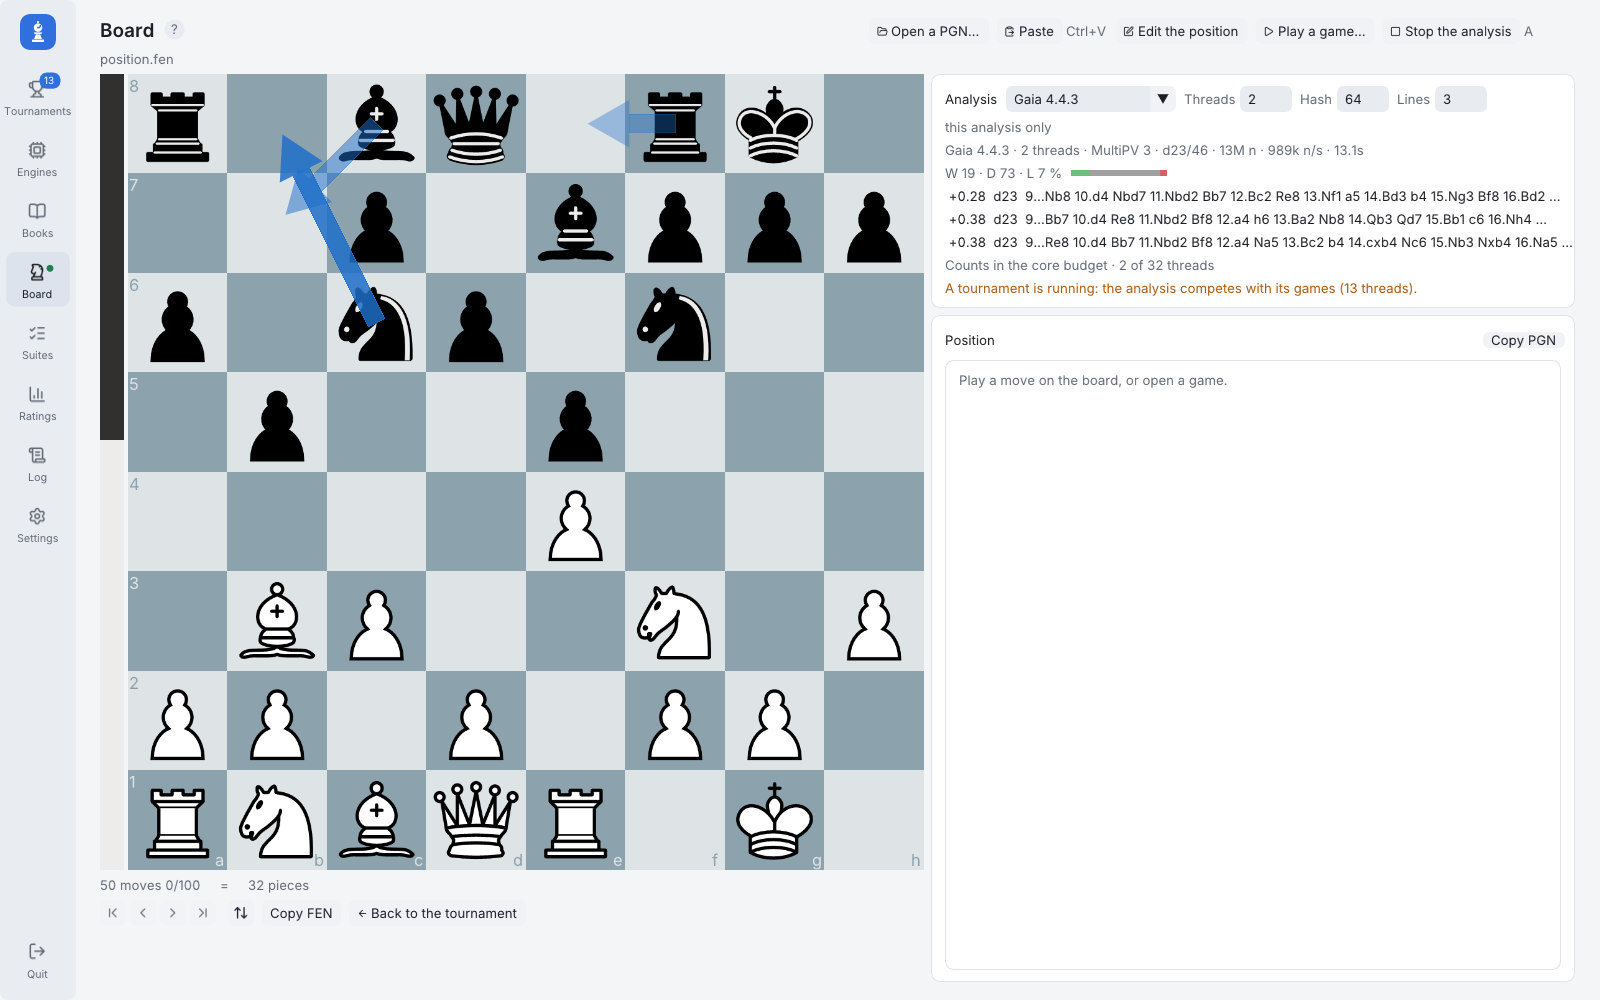
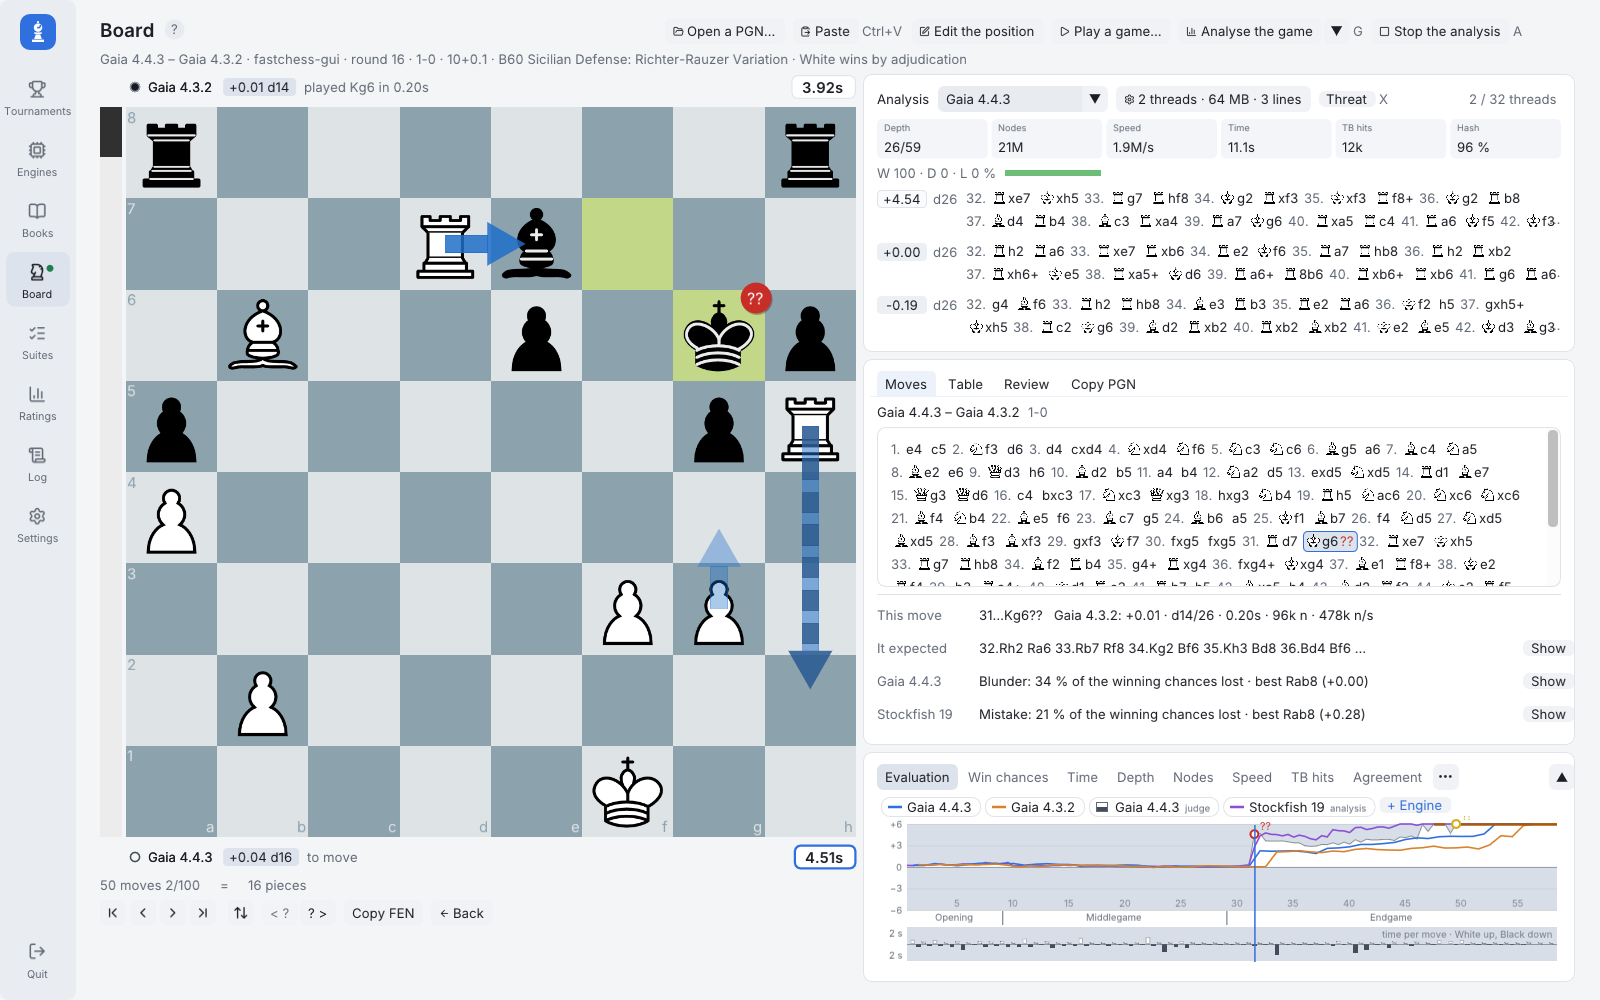
Board: the review gets the moves card's room; README screenshots of the new page
This move shows under the moves and the table, not under the review, which is about the whole game and needs the
room. A turning point from a score that rounds to nothing reads 0.00, not -0.00.

docs/screenshots/board.png and review.png: a game of Gaia 4.4.3 against Gaia 4.3.2 analysed by Gaia 4.4.3 and
Stockfish 19 (release binaries, four passes up to 1.3 s per position), at its turning point, with the board's own
analysis running; and its review.

Part of #177.

Claude-Session: https://claude.ai/code/session_01SefEJAhQ8fjLzCbazGySYM

diff --git a/gui/src/view_board.cpp b/gui/src/view_board.cpp
@@ -1720,7 +1720,8 @@ void App::drawBoardMoves(float height) {
     }
     updateBoardTablebase();
 
-    const float strip = b.ply > 0 && b.ply <= total ? thisMoveHeight() : 0.0f;
+    // This move under the moves and the table; the review is about the whole game.
+    const float strip = b.ply > 0 && b.ply <= total && b.game_tab != 3 ? thisMoveHeight() : 0.0f;
     ImGui::BeginChild("##board_moves", ImVec2(0, -strip), ImGuiChildFlags_Borders);
     std::optional<ui::TopicRegion> moves_region(
         std::in_place, b.tree.variations.empty() ? guide::topics::BoardMoves : guide::topics::Variations);
@@ -2357,7 +2358,9 @@ void App::drawBoardReview() {
     if (moments.empty())
         ImGui::TextDisabled("%s", TR("No mistake: the game was lost little by little, or not at all."));
     const auto pawns = [](double v) {
-        return std::fabs(v) >= MATE_PAWNS * 0.99 ? std::string(v > 0 ? "+M" : "-M") : fmt::format("{:+.2f}", v);
+        if (std::fabs(v) >= MATE_PAWNS * 0.99) return std::string(v > 0 ? "+M" : "-M");
+        const double r = std::round(v * 100.0) / 100.0;
+        return r == 0.0 ? std::string("0.00") : fmt::format("{:+.2f}", r);
     };
     const auto best_of = [&](int ply) -> std::string {
         if (ply <= 0 || static_cast<std::size_t>(ply - 1) >= review.positions.size()) return {};
